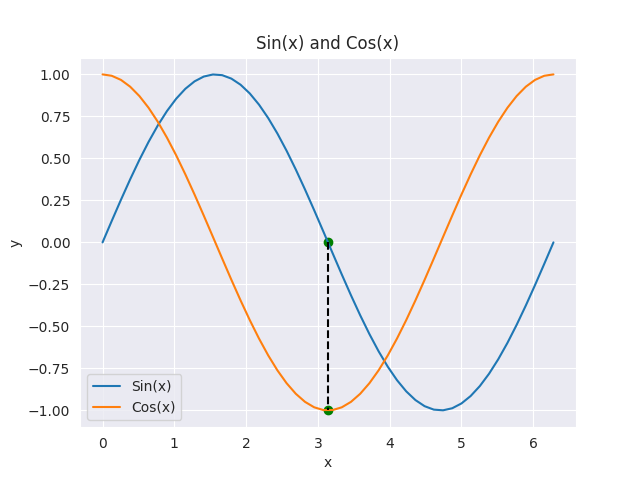
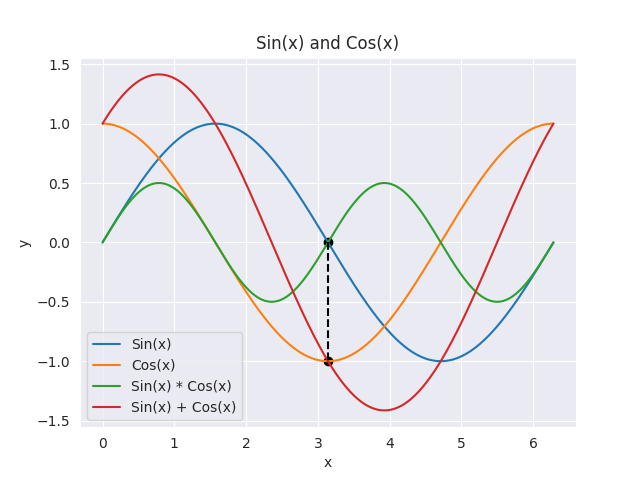
add cos(x) + sin(x)

diff --git a/main.py b/main.py
@@ -18,20 +18,22 @@ data2 = cos(fields)
 
 data3 = sin(fields) * cos(fields)
 
+data4 = sin(fields) + cos(fields)
+
 plt.plot(fields, data)
 plt.plot(fields, data2)
 plt.plot(fields, data3)
+plt.plot(fields, data4)
 
-
-plt.title("Sin(x), Cos(x) and Sin(x) * Cos(x)")
+plt.title("Sin(x) and Cos(x)")
 
 plt.xlabel("x")
 plt.ylabel("y")
 
-fig = plt.legend(["Sin(x)", "Cos(x)", "Sin(x) * Cos(x)"])
+fig = plt.legend(["Sin(x)", "Cos(x)", "Sin(x) * Cos(x)", "Sin(x) + Cos(x)"])
 
 plt.scatter([np.pi, np.pi], [np.sin(np.pi), np.cos(np.pi)], color="black")
 
 plt.plot([np.pi, np.pi], [np.sin(np.pi), np.cos(np.pi)], linestyle="--", color="black")
 
-plt.show()
+plt.savefig("sin_cos.png")
